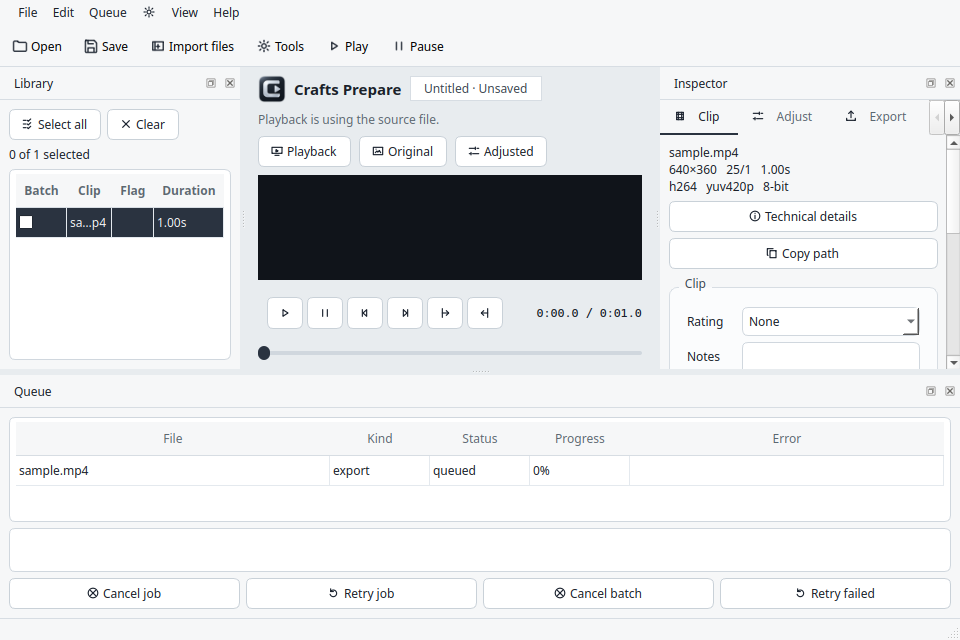
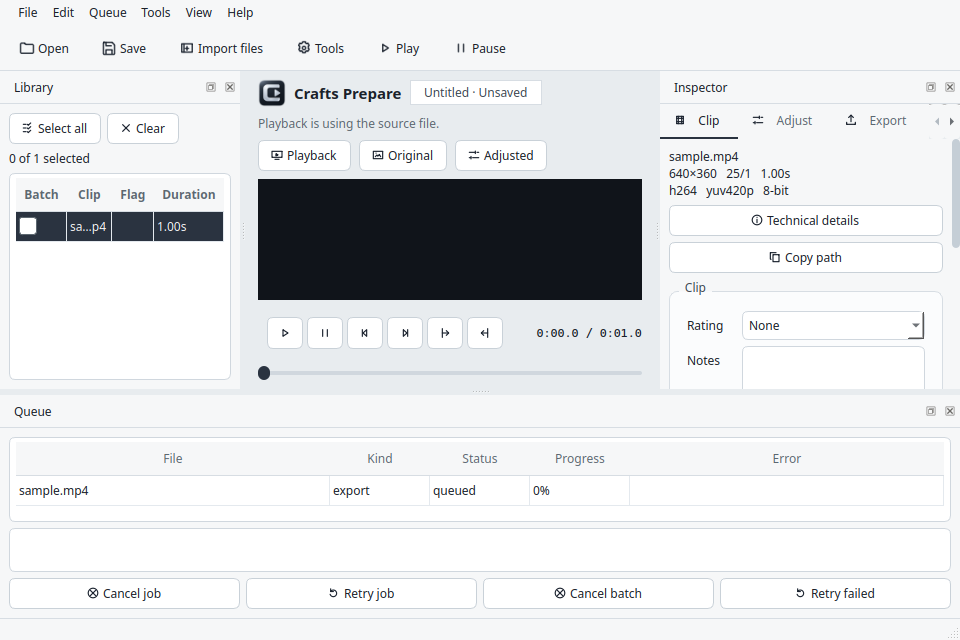
Theme toolbar text and keep the Tools menu label readable.
Dark toolbar buttons now set their own light text color. The gear stays on
the toolbar action, scrollbars and checks follow the theme, and the Windows
build reads the app version without a quoted here-string.

diff --git a/frontend/src/icons.tsx b/frontend/src/icons.tsx
@@ -11,7 +11,7 @@ const PATHS: Record<string, string> = {
   tools: '<path d="M14.5 6.2a3 3 0 0 0-3.8 3.8L5.2 15.5l3.3 3.3 5.5-5.5a3 3 0 0 0 3.8-3.8L15.6 11l-2.6-2.6z"/>',
   save: '<path d="M5 4.5h11.2L19.5 8v11.5a1 1 0 0 1-1 1H5.5a1 1 0 0 1-1-1v-14a1 1 0 0 1 1-1z"/><path d="M8 4.5V9h7"/><path d="M8 20v-5.5h8V20"/>',
   open: '<path d="M3.5 8.5V6.8A1.3 1.3 0 0 1 4.8 5.5h4l1.6 1.8h8.8a1.3 1.3 0 0 1 1.3 1.3v9.1a1.3 1.3 0 0 1-1.3 1.3H4.8a1.3 1.3 0 0 1-1.3-1.3z"/>',
-  settings: '<circle cx="12" cy="12" r="3"/><path d="M12 4.5v2M12 17.5v2M4.5 12h2M17.5 12h2M6.4 6.4l1.4 1.4M16.2 16.2l1.4 1.4M17.6 6.4l-1.4 1.4M7.8 16.2l-1.4 1.4"/>',
+  settings: '<circle cx="12" cy="12" r="2.3"/><path d="M10.3 3.7h3.4l.4 1.8c.5.2 1 .4 1.4.7l1.7-.7 1.7 2.9-1.3 1.3c.1.4.2.9.2 1.3s-.1.9-.2 1.3l1.3 1.3-1.7 2.9-1.7-.7c-.4.3-.9.5-1.4.7l-.4 1.8h-3.4l-.4-1.8a5 5 0 0 1-1.4-.7l-1.7.7-1.7-2.9 1.3-1.3a5 5 0 0 1-.2-1.3c0-.4.1-.9.2-1.3L4.8 8.4l1.7-2.9 1.7.7c.4-.3.9-.5 1.4-.7z"/>',
   log: '<path d="M7 4.5h8l3 3V19.5H7z"/><path d="M15 4.5V8h3"/><path d="M9.5 12h6M9.5 15.5h4"/>',
   adjusted: '<path d="M5 8h9M16.5 8h2.5"/><path d="M14 6.2v3.6"/><path d="M5 16h2.5M10 16h9"/><path d="M7.5 14.2v3.6"/>',
   play: '<path d="M9 7.2v9.6L16.5 12z"/>',

diff --git a/backend/app/desktop/theme.py b/backend/app/desktop/theme.py
@@ -58,6 +58,31 @@ QSlider::handle:horizontal { width: 12px; margin: -5px 0; background: #2a3340; b
 QStackedWidget#viewerStack, QLabel#stillLabel, QVideoWidget#videoWidget, QLabel#videoWidget {
   background: #10141a; color: #d5dde6;
 }
+QToolBar QToolButton {
+  background: #f6f7f8; color: #1a2028; border: 0; border-radius: 6px; padding: 4px 8px;
+}
+QToolBar QToolButton:hover { background: #e6ebf0; color: #1a2028; }
+QToolBar QToolButton:pressed, QToolBar QToolButton:checked { background: #d7dde3; color: #1a2028; }
+QToolBar QToolButton:disabled { color: #8b97a3; background: #f6f7f8; }
+QToolBar QToolButton:focus { border: 1px solid #2a3340; }
+QTabBar QToolButton { background: #f6f7f8; color: #1a2028; border: 0; border-radius: 4px; }
+QTabBar QToolButton:hover { background: #e6ebf0; }
+QTabBar QToolButton:disabled { color: #8b97a3; }
+QScrollBar:vertical { background: #f6f7f8; width: 8px; margin: 0; }
+QScrollBar:horizontal { background: #f6f7f8; height: 8px; margin: 0; }
+QScrollBar::handle:vertical, QScrollBar::handle:horizontal { background: #c5ced6; border-radius: 4px; min-height: 24px; min-width: 24px; }
+QScrollBar::handle:hover { background: #8b97a3; }
+QScrollBar::add-line, QScrollBar::sub-line { height: 0; width: 0; background: #f6f7f8; }
+QScrollBar::add-page, QScrollBar::sub-page { background: #f6f7f8; }
+QCheckBox::indicator, QTableWidget::indicator {
+  width: 16px; height: 16px; border: 1px solid #5c6770; background: #ffffff; border-radius: 3px;
+}
+QCheckBox::indicator:checked, QTableWidget::indicator:checked { background: #2a3340; border: 1px solid #2a3340; }
+QComboBox QAbstractItemView {
+  background: #ffffff; color: #1a2028; selection-background-color: #2a3340; selection-color: #f7f8f9; border: 1px solid #d0d7de;
+}
+QLineEdit:disabled, QSpinBox:disabled, QDoubleSpinBox:disabled, QComboBox:disabled { color: #8b97a3; background: #eef1f3; }
+QLineEdit:focus, QSpinBox:focus, QDoubleSpinBox:focus, QComboBox:focus { border: 1px solid #2a3340; }
 """
 
 DARK = """
@@ -109,6 +134,31 @@ QSlider::handle:horizontal { width: 12px; margin: -5px 0; background: #d5dde6; b
 QStackedWidget#viewerStack, QLabel#stillLabel, QVideoWidget#videoWidget, QLabel#videoWidget {
   background: #10141a; color: #d5dde6;
 }
+QToolBar QToolButton {
+  background: #171c23; color: #e8eef4; border: 0; border-radius: 6px; padding: 4px 8px;
+}
+QToolBar QToolButton:hover { background: #2b3440; color: #e8eef4; }
+QToolBar QToolButton:pressed, QToolBar QToolButton:checked { background: #24303c; color: #ffffff; }
+QToolBar QToolButton:disabled { color: #6e7c8c; background: #171c23; }
+QToolBar QToolButton:focus { border: 1px solid #d5dde6; }
+QTabBar QToolButton { background: #171c23; color: #e8eef4; border: 0; border-radius: 4px; }
+QTabBar QToolButton:hover { background: #2b3440; }
+QTabBar QToolButton:disabled { color: #6e7c8c; }
+QScrollBar:vertical { background: #171c23; width: 8px; margin: 0; }
+QScrollBar:horizontal { background: #171c23; height: 8px; margin: 0; }
+QScrollBar::handle:vertical, QScrollBar::handle:horizontal { background: #3a4452; border-radius: 4px; min-height: 24px; min-width: 24px; }
+QScrollBar::handle:hover { background: #5c6770; }
+QScrollBar::add-line, QScrollBar::sub-line { height: 0; width: 0; background: #171c23; }
+QScrollBar::add-page, QScrollBar::sub-page { background: #171c23; }
+QCheckBox::indicator, QTableWidget::indicator {
+  width: 16px; height: 16px; border: 1px solid #9aa6b2; background: #10151b; border-radius: 3px;
+}
+QCheckBox::indicator:checked, QTableWidget::indicator:checked { background: #d5dde6; border: 1px solid #d5dde6; }
+QComboBox QAbstractItemView {
+  background: #1c232c; color: #e8eef4; selection-background-color: #3d4b5c; selection-color: #f4f7fa; border: 1px solid #313a46;
+}
+QLineEdit:disabled, QSpinBox:disabled, QDoubleSpinBox:disabled, QComboBox:disabled { color: #6e7c8c; background: #151b22; }
+QLineEdit:focus, QSpinBox:focus, QDoubleSpinBox:focus, QComboBox:focus { border: 1px solid #d5dde6; }
 """
 
 

diff --git a/backend/app/desktop/window.py b/backend/app/desktop/window.py
@@ -6,7 +6,7 @@ import uuid
 from pathlib import Path
 
 from PySide6.QtCore import QByteArray, QEventLoop, QSize, QTimer, QUrl, Qt, Signal
-from PySide6.QtGui import QAction, QCloseEvent, QDesktopServices, QPixmap
+from PySide6.QtGui import QAction, QCloseEvent, QDesktopServices, QIcon, QPixmap
 from PySide6.QtWidgets import (
     QApplication,
     QCheckBox,
@@ -21,6 +21,7 @@ from PySide6.QtWidgets import (
     QLineEdit,
     QListWidget,
     QMainWindow,
+    QMenu,
     QMessageBox,
     QPlainTextEdit,
     QPushButton,
@@ -89,7 +90,6 @@ _ICON_FOR_LABEL = {
     "Cancel batch": "cancel",
     "Retry failed": "retry",
     "External programs…": "tools",
-    "Tools": "settings",
     "Clip": "clip",
     "Refresh tool report": "retry",
     "Light": "sun",
@@ -733,6 +733,7 @@ class MainWindow(QMainWindow):
 
         tools_menu = self.menuBar().addMenu("Tools")
         self.settings_action = QAction("Tools", self)
+        self.settings_action.setProperty("iconName", "settings")
         self.settings_action.setToolTip("External programs")
         self.settings_action.triggered.connect(self.open_settings)
         toolbar.addAction(self.settings_action)
@@ -825,7 +826,13 @@ class MainWindow(QMainWindow):
         if not mark.isNull():
             self.brand_mark.setPixmap(mark)
         self._tint_scrolls(theme)
+        self._style_toolbar_buttons(theme)
+        menu_actions = {menu.menuAction() for menu in self.findChildren(QMenu)}
+        for action in menu_actions:
+            action.setIcon(QIcon())
         for widget in self.findChildren(QPushButton) + self.findChildren(QAction):
+            if isinstance(widget, QAction) and widget in menu_actions:
+                continue
             named = widget.property("iconName")
             label = widget.text() or ""
             key = str(named) if named else _ICON_FOR_LABEL.get(label)
@@ -846,6 +853,27 @@ class MainWindow(QMainWindow):
             for index, icon_name in enumerate(("clip", "adjusted", "export", "gyro")):
                 tabs.setTabIcon(index, action_icon(icon_name, theme))
         del QPixmap
+
+    def _style_toolbar_buttons(self, theme: str) -> None:
+        from PySide6.QtGui import QColor, QPalette
+        from PySide6.QtWidgets import QToolBar, QToolButton
+
+        dark = theme == "dark"
+        text = QColor("#e8eef4" if dark else "#1a2028")
+        muted = QColor("#6e7c8c" if dark else "#8b97a3")
+        surface = QColor("#171c23" if dark else "#f6f7f8")
+        for bar in self.findChildren(QToolBar):
+            for button in bar.findChildren(QToolButton):
+                palette = button.palette()
+                for group in (QPalette.ColorGroup.Active, QPalette.ColorGroup.Inactive):
+                    palette.setColor(group, QPalette.ColorRole.Window, surface)
+                    palette.setColor(group, QPalette.ColorRole.Button, surface)
+                    palette.setColor(group, QPalette.ColorRole.WindowText, text)
+                    palette.setColor(group, QPalette.ColorRole.ButtonText, text)
+                    palette.setColor(group, QPalette.ColorRole.Text, text)
+                palette.setColor(QPalette.ColorGroup.Disabled, QPalette.ColorRole.ButtonText, muted)
+                palette.setColor(QPalette.ColorGroup.Disabled, QPalette.ColorRole.WindowText, muted)
+                button.setPalette(palette)
 
     def _tint_scrolls(self, theme: str) -> None:
         from PySide6.QtGui import QColor, QPalette

diff --git a/backend/tests/test_ui_surfaces.py b/backend/tests/test_ui_surfaces.py
@@ -9,7 +9,8 @@ os.environ.setdefault("QT_QPA_PLATFORM", "offscreen")
 pytest.importorskip("PySide6")
 
 from PySide6.QtCore import QPoint
-from PySide6.QtWidgets import QApplication, QTableWidgetItem
+from PySide6.QtGui import QPalette
+from PySide6.QtWidgets import QApplication, QTableWidgetItem, QToolBar, QToolButton
 
 from app.desktop.prefs import PrefsWriteError, save_state
 from app.desktop.window import MainWindow
@@ -138,6 +139,39 @@ def test_project_chip_is_honest_and_elides(qapp, window):
     assert len(window.project_chip.text()) < 48
     assert "project-" in window.project_chip.toolTip()
     window.service.project_path = None
+
+
+def test_dark_toolbar_text_is_light_and_tools_menu_keeps_its_label(qapp, window):
+    from app.desktop.icons import action_icon
+
+    window.set_theme("dark")
+    qapp.processEvents()
+    toolbar = window.findChild(QToolBar, "mainToolBar")
+    labeled = [button for button in toolbar.findChildren(QToolButton) if button.text()]
+    assert labeled
+    for button in labeled:
+        ink = button.palette().color(QPalette.ColorRole.ButtonText)
+        assert ink.lightness() > 180
+        surface = button.grab().toImage().pixelColor(2, 2)
+        assert surface.lightness() < 80
+    window.set_theme("light")
+    qapp.processEvents()
+    for button in toolbar.findChildren(QToolButton):
+        if not button.text():
+            continue
+        ink = button.palette().color(QPalette.ColorRole.ButtonText)
+        assert ink.lightness() < 80
+    tools = next(action for action in window.menuBar().actions() if action.text() == "Tools")
+    assert tools.icon().isNull()
+    assert window.settings_action.property("iconName") == "settings"
+    assert window.settings_action.icon().isNull() is False
+    gear = action_icon("settings", "dark").pixmap(24, 24).toImage()
+    sun = action_icon("sun", "dark").pixmap(24, 24).toImage()
+    assert gear != sun
+    sheet = window.styleSheet()
+    assert "QScrollBar::handle" in sheet
+    assert "QToolBar QToolButton" in sheet
+    assert "width: 16px" in sheet
 
 
 def test_transient_preference_replace_keeps_then_updates(tmp_path, monkeypatch):

diff --git a/backend/app/desktop/icons.py b/backend/app/desktop/icons.py
@@ -39,7 +39,7 @@ _BODIES: dict[str, str] = {
     "cancel": '<path d="M8 8l8 8M16 8l-8 8"/><circle cx="12" cy="12" r="7.25"/>',
     "retry": '<path d="M7 9.5A5 5 0 1 1 6.2 14"/><path d="M7 5.8v4h4"/>',
     "tools": '<path d="M14.5 6.2a3 3 0 0 0-3.8 3.8L5.2 15.5l3.3 3.3 5.5-5.5a3 3 0 0 0 3.8-3.8L15.6 11l-2.6-2.6z"/>',
-    "settings": '<circle cx="12" cy="12" r="3"/><path d="M12 4.5v2M12 17.5v2M4.5 12h2M17.5 12h2M6.4 6.4l1.4 1.4M16.2 16.2l1.4 1.4M17.6 6.4l-1.4 1.4M7.8 16.2l-1.4 1.4"/>',
+    "settings": '<circle cx="12" cy="12" r="2.3"/><path d="M10.3 3.7h3.4l.4 1.8c.5.2 1 .4 1.4.7l1.7-.7 1.7 2.9-1.3 1.3c.1.4.2.9.2 1.3s-.1.9-.2 1.3l1.3 1.3-1.7 2.9-1.7-.7c-.4.3-.9.5-1.4.7l-.4 1.8h-3.4l-.4-1.8a5 5 0 0 1-1.4-.7l-1.7.7-1.7-2.9 1.3-1.3a5 5 0 0 1-.2-1.3c0-.4.1-.9.2-1.3L4.8 8.4l1.7-2.9 1.7.7c.4-.3.9-.5 1.4-.7z"/>',
     "clip": '<path d="M7 6.5h10v11H7z"/><path d="M9.5 6.5v11M14.5 6.5v11"/><path d="M7 9.5h10M7 14.5h10"/>',
     "sun": '<circle cx="12" cy="12" r="3.2"/><path d="M12 4.5v1.8M12 17.7v1.8M4.5 12h1.8M17.7 12h1.8M6.6 6.6l1.3 1.3M16.1 16.1l1.3 1.3M17.4 6.6l-1.3 1.3M7.9 16.1l-1.3 1.3"/>',
     "moon": '<path d="M15.5 5.2A6.8 6.8 0 1 0 18.8 14 5.4 5.4 0 0 1 15.5 5.2z"/>',

diff --git a/backend/tests/test_packaging.py b/backend/tests/test_packaging.py
@@ -52,6 +52,9 @@ def test_inno_script_has_no_pascal_comment_and_keeps_user_data():
 def test_build_script_does_not_delete_previous_outputs():
     text = (ROOT / "packaging" / "build-windows.ps1").read_text(encoding="utf-8")
     assert "Remove-Item" not in text
+    assert "from app.version import APP_VERSION" in text
+    assert "re.search" not in text
+    assert "@'" not in text
     assert "Refusing to overwrite" in text
     assert '"/DSourceDir=$bundle"' in text
     assert '"/DOutputDir=$installerOut"' in text
